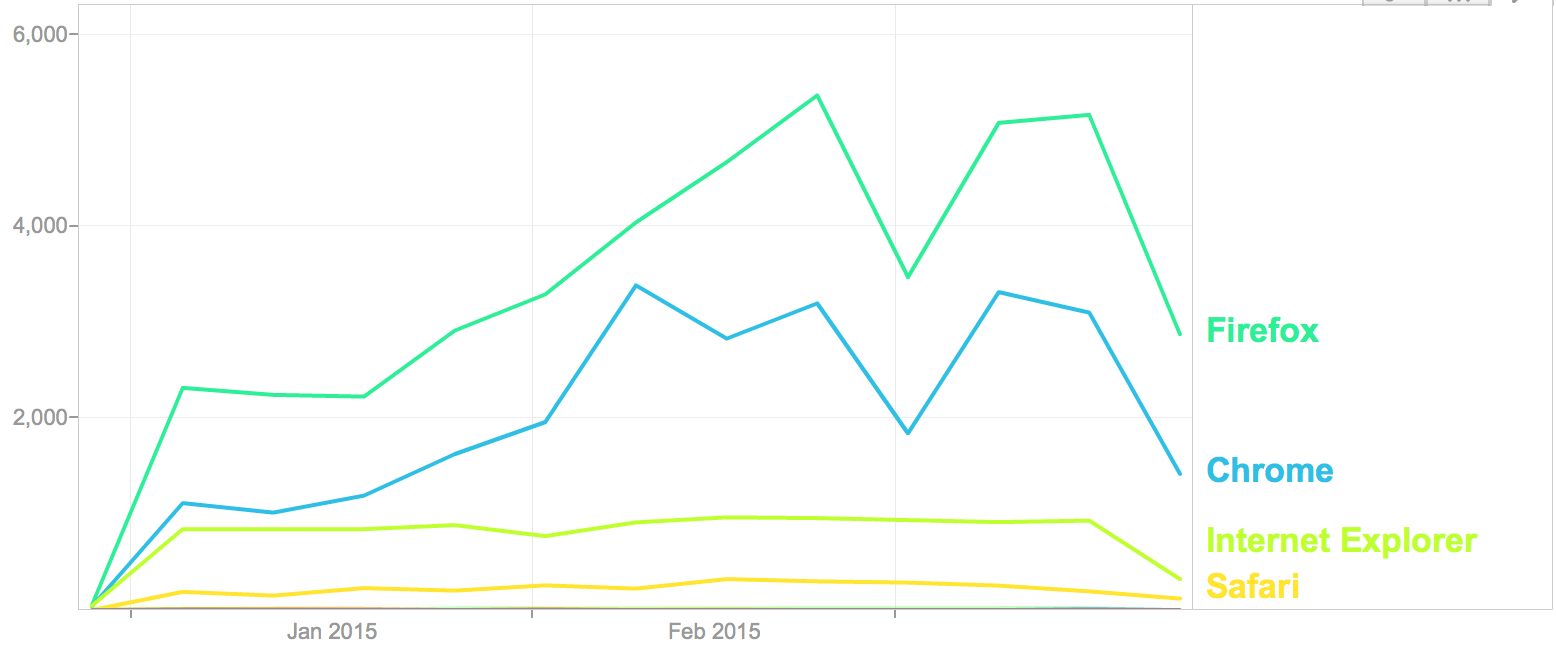
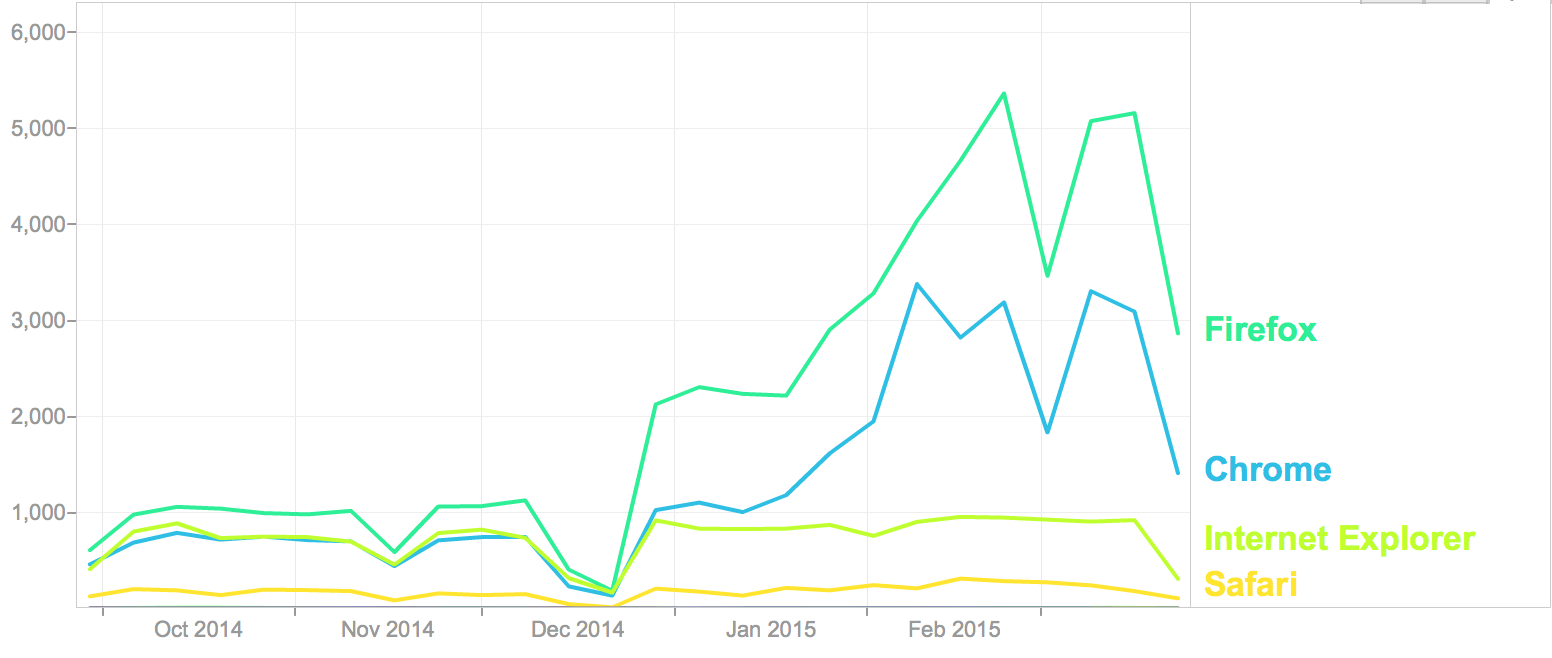
publishing deck

diff --git a/index.html b/index.html
@@ -421,12 +421,14 @@
   
   <p><img src="./images/Timeline_of_web_browsers.svg" alt="browser-timeline"></p>
 
+<p><a href="http://commons.wikimedia.org/wiki/File:Timeline_of_web_browsers.svg#/media/File:Timeline_of_web_browsers.svg">&quot;Timeline of web browsers&quot; by I, ADeveria. Licensed under CC BY-SA 3.0 via Wikimedia Commons</a></p>
+
 </section>
 <section class='' data-state='' id='slide-29'>
   <h2>Rapid Change in Browsers</h2>
   <ul>
 <li>Firefox and Chrome release a new version every 6 weeks</li>
-<li>Internet Explore has been deprecated by Microsoft
+<li>Microsoft recently deprecated support for Internet Explorer
 
 <ul>
 <li><a href="http://ww2.cfo.com/mobile/2015/04/phaseout-internet-explorer-stirs-no-grief/">Phaseout of Internet Explorer Stirs No Grief</a></li>
@@ -437,10 +439,19 @@
 </section>
 <section class='' data-state='' id='slide-30'>
   
-  <p><img src="./images/browser-share.png" alt="browser-share"></p>
+  <p>Browser Share on Data Portals (Q1 2015)</p>
+
+<p><img src="./images/browser-share.png" alt="browser-share"></p>
 
 </section>
 <section class='' data-state='' id='slide-31'>
+  
+  <p>Browser Usage on Data Portals (6 months to 3/31/2015)</p>
+
+<p><img src="./images/browser-usage.png" alt="Browser Usage"></p>
+
+</section>
+<section class='' data-state='' id='slide-32'>
   <h2>Initial Validation</h2>
   <ul>
 <li>Conclusions:
@@ -452,22 +463,108 @@
 </ul>
 
 </section>
-<section class='' data-state='' id='slide-32'>
-  <h2>Initial Validation</h2>
-  <p><img src="./images/browser-list.png" alt="Browser List"></p>
-
-</section>
 <section class='' data-state='' id='slide-33'>
-  <h2>Initial Validation</h2>
-  <p><img src="./images/browser-usage.png" alt="Browser Usage"></p>
-
+  <h1>Automated Validation</h1>
+  
 </section>
 <section class='' data-state='' id='slide-34'>
+  <h2>Software Development Life Cycle</h2>
+  <ul>
+<li>Request</li>
+<li>Approval</li>
+<li>Design</li>
+<li>Specification</li>
+<li>Requirements</li>
+<li>Development</li>
+<li>Testing</li>
+<li>UAT</li>
+<li>Release</li>
+<li>Configuration</li>
+<li>Deployment</li>
+</ul>
+
+</section>
+<section class='' data-state='' id='slide-35'>
+  <h2>Software Development Life Cycle</h2>
+  <ul>
+<li><span class="text-success">Request</span></li>
+<li>Approval</li>
+<li>Design</li>
+<li><span class="text-success">Specification</span></li>
+<li><span class="text-success">Requirements</span></li>
+<li><span class="text-success">Development</span></li>
+<li><span class="text-success">Testing</span></li>
+<li>UAT</li>
+<li>Release</li>
+<li><span class="text-success">Configuration</span></li>
+<li><span class="text-success">Deployment</span></li>
+</ul>
+
+</section>
+<section class='' data-state='' id='slide-36'>
+  <h2>Tools</h2>
+  <ul>
+<li>Git (Version Control)</li>
+<li>Github (Cloud-based Version Control Service)</li>
+<li>Jenkins (Task Queue)</li>
+<li>Amazon Web Services (Platform as a Service)</li>
+<li>Robot (Automated Functional Testing)</li>
+<li>Foreman + Puppet (Provisioning and Configuration Management)</li>
+<li>Spacewalk (Package Management)</li>
+</ul>
+
+</section>
+<section class='' data-state='' id='slide-37'>
+  <h2>Benefits</h2>
+  <ul>
+<li>Manage and test all software and system deliverables on a ongoing basis
+
+<ul>
+<li>Reproducibility</li>
+<li>Flexibility</li>
+<li>Scalability</li>
+<li>Visibility</li>
+<li>Metrics</li>
+</ul></li>
+<li>Testing becomes central to the overall development process</li>
+</ul>
+
+</section>
+<section class='' data-state='' id='slide-38'>
+  <h2>Status</h2>
+  <ul>
+<li>We completed development of this automated validation framework on July 2014</li>
+<li>We completed the first round of automated validation activities in December 2014</li>
+<li>We achieved full coverage of <span class="text-success">all</span> Data Portal apps on March 31st, 2015</li>
+</ul>
+
+</section>
+<section class='' data-state='' id='slide-39'>
+  <h2>Status</h2>
+  <ul>
+<li>The following tests are running <span class="undeline>nightly</span>:
+
+<ul>
+<li>1k+ Functional Tests</li>
+<li>8k+ Unit Tests</li>
+</ul></li>
+<li>We plan to continue to expand our test coverage</li>
+</ul>
+
+</section>
+<section class='' data-state='' id='slide-40'>
+  
+  <p>Testing Command Center</p>
+
+<p><img src="./images/test-menu.png" alt="test-menu"></p>
+
+</section>
+<section class='' data-state='' id='slide-41'>
   <h1>Roadmap</h1>
   <ul>
 <li>Improvements to the Help app</li>
-<li>Working with Medavante</li>
-<li>Working on GAAIN</li>
+<li>Developing new approaches to integration of external data</li>
+<li>Working on with LONI to add ADCS data to GAAIN</li>
 <li>Preparing for A5</li>
 <li>Working with Safety on RBM</li>
 <li>Working with Stats on Reporting</li>
@@ -475,11 +572,11 @@
 </ul>
 
 </section>
-<section class='' data-state='' id='slide-35'>
+<section class='' data-state='' id='slide-42'>
   <h1>Thanks</h1>
   
 </section>
-<section class='' data-state='' id='slide-36'>
+<section class='' data-state='' id='slide-43'>
   
   
 </section>

diff --git a/index.md b/index.md
@@ -308,17 +308,27 @@ How do we ensure that these changes are <span class="underline">fully</span> val
 
 ![browser-timeline](./images/Timeline_of_web_browsers.svg)
 
+["Timeline of web browsers" by I, ADeveria. Licensed under CC BY-SA 3.0 via Wikimedia Commons](http://commons.wikimedia.org/wiki/File:Timeline_of_web_browsers.svg#/media/File:Timeline_of_web_browsers.svg)
+
 ---
 ## Rapid Change in Browsers
 
 * Firefox and Chrome release a new version every 6 weeks
-* Internet Explore has been deprecated by Microsoft
+* Microsoft recently deprecated support for Internet Explorer
     * [Phaseout of Internet Explorer Stirs No Grief](http://ww2.cfo.com/mobile/2015/04/phaseout-internet-explorer-stirs-no-grief/)
 * Microsoft is launching Spartan
 
 ---
 
+Browser Share on Data Portals (Q1 2015)
+
 ![browser-share](./images/browser-share.png)
+
+---
+
+Browser Usage on Data Portals (6 months to 3/31/2015)
+
+![Browser Usage](./images/browser-usage.png)
 
 ---
 
@@ -330,23 +340,91 @@ How do we ensure that these changes are <span class="underline">fully</span> val
 
 ---
 
-## Initial Validation
-
-![Browser List](./images/browser-list.png)
+# Automated Validation
 
 ---
 
-## Initial Validation
+## Software Development Life Cycle
 
-![Browser Usage](./images/browser-usage.png)
+* Request
+* Approval
+* Design
+* Specification
+* Requirements
+* Development
+* Testing
+* UAT
+* Release
+* Configuration
+* Deployment
+
+---
+
+## Software Development Life Cycle
+
+* <span class="text-success">Request</span>
+* Approval
+* Design
+* <span class="text-success">Specification</span>
+* <span class="text-success">Requirements</span>
+* <span class="text-success">Development</span>
+* <span class="text-success">Testing</span>
+* UAT
+* Release
+* <span class="text-success">Configuration</span>
+* <span class="text-success">Deployment</span>
+
+---
+
+## Tools
+
+* Git (Version Control)
+* Github (Cloud-based Version Control Service)
+* Jenkins (Task Queue)
+* Amazon Web Services (Platform as a Service)
+* Robot (Automated Functional Testing)
+* Foreman + Puppet (Provisioning and Configuration Management)
+* Spacewalk (Package Management)
+
+---
+
+## Benefits
+* Manage and test all software and system deliverables on a ongoing basis
+    * Reproducibility
+    * Flexibility
+    * Scalability
+    * Visibility
+    * Metrics
+* Testing becomes central to the overall development process
+
+---
+
+## Status
+* We completed development of this automated validation framework on July 2014
+* We completed the first round of automated validation activities in December 2014
+* We achieved full coverage of <span class="text-success">all</span> Data Portal apps on March 31st, 2015
+
+---
+
+## Status
+* The following tests are running <span class="undeline>nightly</span>:
+    * 1k+ Functional Tests
+    * 8k+ Unit Tests
+* We plan to continue to expand our test coverage
+
+---
+
+Testing Command Center
+
+![test-menu](./images/test-menu.png)
 
 ---
 
 # Roadmap
 
 * Improvements to the Help app
-* Working with Medavante
-* Working on GAAIN
+* Developing new approaches to integration of external data
+* Working on with LONI to add ADCS data to GAAIN
 * Preparing for A5
 * Working with Safety on RBM
 * Working with Stats on Reporting
